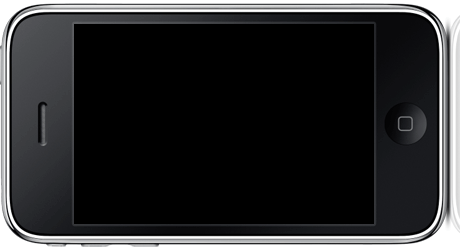
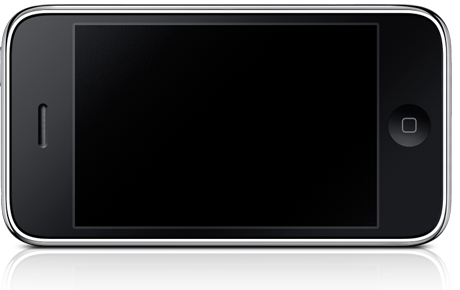
Added new iPhone frames and some other fixes

diff --git a/_includes/header.html b/_includes/header.html
@@ -10,12 +10,19 @@
                 <li id="nav_home"><a href="/index.html">Home</a></li>
                 <li id="nav_training"><a href="/training.html">Training</a>
                     <ul>
-                        <li><a href="/public-training.html">Public iPhone Training</a></li>
-                        <li style="border-bottom: 0;" class="bottom"><a href="/in-house-training.html">In House iPhone Training</a></li>
+                        <li class="top"><a href="/public-training.html">Public iPhone Training</a></li>
+                        <li class="bottom"><a href="/in-house-training.html">In House iPhone Training</a></li>
                     </ul>
                 </li>
                 <li id="nav_consultancy"><a href="/consultancy.html">Consultancy</a></li>
-                <li id="nav_apps"><a href="/our-apps.html">Our Apps</a></li>
+                <li id="nav_apps"><a href="/our-apps.html">Our Apps</a>
+                    <ul>
+                        <li class="top"><a href="/balloons.html">Balloons! for iPhone</a></li>
+                        <li><a href="/speakapedia.html">Speakapedia</a></li>
+                        <li><a href="/charades.html">Charades for iPhone</a></li>
+                        <li class="bottom"><a href="/the-rag.html">The RAG</a></li>
+                    </ul>
+                </li>
                 <li id="nav_blog"><a href="/blog.html">Blog</a></li>
                 <li id="nav_contact"><a href="/contact-us.html">Contact Us</a></li>
         	</ul>

diff --git a/the-rag.html b/the-rag.html
@@ -72,7 +72,7 @@ description: Shiny Development Our Apps
         
             <p>Watch the demo to get an idea of how it works or visit <a href="http://theragis.us">http://theragis.us</a> to see the work produced by others when they undertook as RAG Challenge. Send us ideas for future RAGs or contact us if you want to discuss your own custom RAG.</p>
             
-            <a href="http://itunes.apple.com/app/the-rag/id309888868?mt=8"><img src="assets/images/app-store-150px.png" /></a>
+            <a href="http://itunes.apple.com/app/the-rag/id309888868?mt=8"><img src="/assets/images/app-store-150px.png" /></a>
    
         </div>
 

diff --git a/charades.html b/charades.html
@@ -49,7 +49,7 @@ description: Shiny Development Our Apps
 
             <p>Want to research any of the charades before or after you perform? No Problem! The software contains Wikipedia links for every charade. Perfect for sorting out the arguments over when it was made or who sang it first!</p>
             
-            <a href="http://itunes.apple.com/app/charades/id298074203?mt=8"><img src="assets/images/app-store-150px.png" /></a>
+            <a href="http://itunes.apple.com/app/charades/id298074203?mt=8"><img src="/assets/images/app-store-150px.png" /></a>
             
                 
         </div>

diff --git a/assets/styles/layout.css b/assets/styles/layout.css
@@ -190,9 +190,9 @@ body.blog, body.blog-post {
   color: #fff;
   display: inline;
   float: left;
-  height: 200px;
+  height: 290px;
   padding: 26px 25px 26px 74px;
-  width: 347px;
+  width: 355px;
   
 }
 
@@ -630,6 +630,14 @@ form.license-key input#commit {
 	left:			0;
 	top:			2.0em; /* match top ul list item height */
 	z-index:		99;
+}
+
+.header li li.bottom {
+    border-bottom: 0;
+}
+
+.sf-menu ul {
+    z-index: 10000;
 }
 
 /* @end */

diff --git a/assets/styles/progressive.css b/assets/styles/progressive.css
@@ -29,7 +29,14 @@ This is where I keep CSS3 or browser-specific rules
     border-radius: 6px;
 }
 
-.header li li a, .header li li a:hover {
+.header li li a {
+    -khtml-border-radius: 0px;
+    -moz-border-radius: 0px;
+    -webkit-border-radius: 0px;
+    border-radius: 0px;
+}
+
+.header li li.top a, .header li li.top a:hover {
     -khtml-border-radius: 0px;
     -moz-border-radius: 0px;
     -webkit-border-radius: 0px;

diff --git a/index.html b/index.html
@@ -21,7 +21,7 @@ description: Shiny Development website home
 
         </div>
 
-        <img src="assets/images/ipad-iphone.png" width="492" height="480" class="display-img" />
+        <img src="/assets/images/ipad-iphone.png" width="492" height="480" class="display-img" />
 
     </div>
 

diff --git a/our-apps.html b/our-apps.html
@@ -21,7 +21,7 @@ description: Shiny Development Our Apps
 
         </div>
 
-        <img src="assets/images/ipad.png" width="561" height="360" class="display-img" />
+        <img src="/assets/images/ipad.png" width="561" height="360" class="display-img" />
 
     </div>
 

diff --git a/in-house-training.html b/in-house-training.html
@@ -20,7 +20,7 @@ description: Shiny Development In House Training
 
     </div>
 
-    <img src="assets/images/iphone.png" width="561" height="360" class="display-img" />
+    <img src="/assets/images/iphone.png" width="561" height="360" class="display-img" />
 
 </div>
 

diff --git a/public-training.html b/public-training.html
@@ -20,7 +20,7 @@ description: Shiny Development Public Training
 
     </div>
 
-    <img src="assets/images/iphone.png" width="561" height="360" class="display-img" />
+    <img src="/assets/images/iphone.png" width="561" height="360" class="display-img" />
 
 </div>
 

diff --git a/training.html b/training.html
@@ -21,7 +21,7 @@ description: Shiny Development training
 
     </div>
 
-    <img src="assets/images/iphone.png" width="561" height="360" class="display-img" />
+    <img src="/assets/images/iphone.png" width="561" height="360" class="display-img" />
 
 </div>
 

diff --git a/consultancy.html b/consultancy.html
@@ -19,7 +19,7 @@ description: Shiny Development consultancy
 
     </div>
 
-    <img src="assets/images/ipad.png" width="561" height="360" class="display-img" />
+    <img src="/assets/images/ipad.png" width="561" height="360" class="display-img" />
 
 </div>
 
